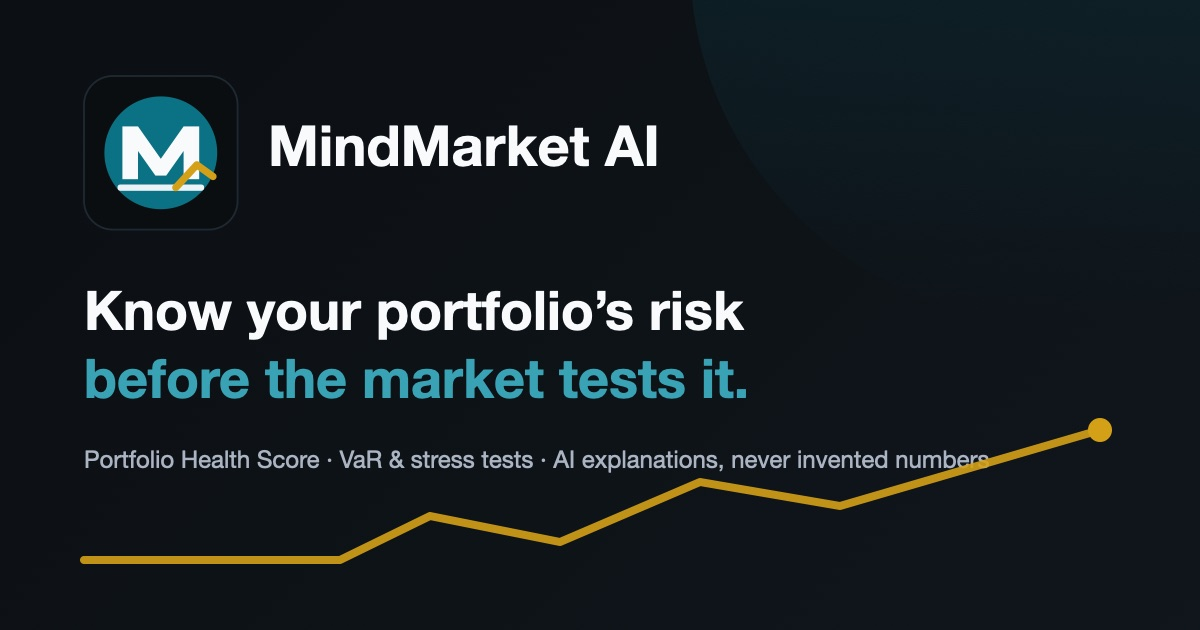
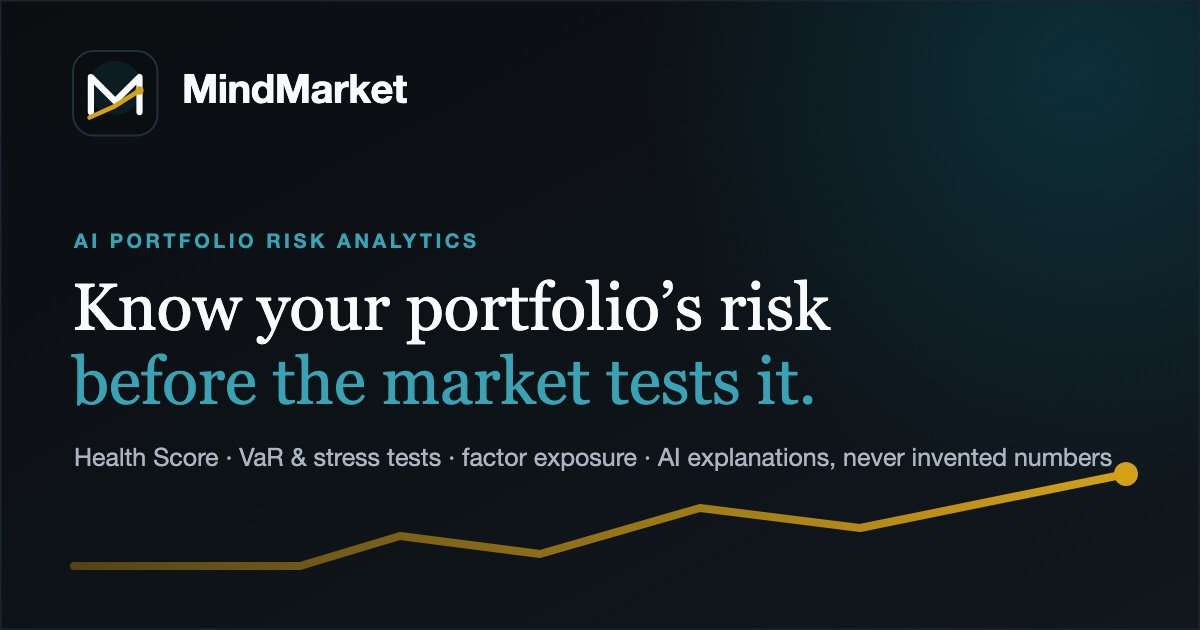
chore(brand): regenerate the social share (OG) card with the current brand (#166)
The link-preview card served on share (og.jpg) still showed the OLD logo
(a filled teal disc with a block-letter M) and Helvetica type — it predates
the V2 brand refresh. Rebuilt assets/brand/og-card.svg with the current
identity: the M + rising-line mark from ui/logo.tsx, the canonical dark
palette (ink 0B0E11, teal 39A3B5, gold D4A017), a serif display headline
(Georgia, the closest installed match to the brand Instrument Serif), and
the gold rising-line risk motif that echoes the logo. Rendered to a
1200x630 og.jpg via headless Chrome (qlmanage distorts non-square SVGs).

Bumped every og:image reference to /og.jpg?v=2 (Next metadata across the
public pages + the static SEO pages) so platforms that cached the old card
refetch it. /og.jpg is served by the frontend container (public/), not
Caddy — the @brand_assets matcher covers only favicons — so the new image
ships in the frontend image; the static SEO ?v=2 refs deploy via the
assets/seo git-pull half.

frontend lint + build clean.

diff --git a/assets/seo/portfolio-risk-management.html b/assets/seo/portfolio-risk-management.html
@@ -14,7 +14,7 @@
   <meta property="og:site_name" content="MindMarket AI">
   <meta property="og:title" content="Personal Portfolio Risk Management Software">
   <meta property="og:description" content="Analyze portfolio risk, drawdown, VaR, CVaR, stress scenarios, and factor exposure with AI-assisted summaries.">
-  <meta property="og:image" content="https://mindmarket.app/og.jpg">
+  <meta property="og:image" content="https://mindmarket.app/og.jpg?v=2">
   <meta name="twitter:card" content="summary_large_image">
   <style>:root{--mm-bg:#f5f7fa;--mm-text:#0b0e11;--mm-dim:#4d5763;--mm-teal:#0b7285;}html.dark{--mm-bg:#0b0e11;--mm-text:#f8fafc;--mm-dim:#aab4c2;--mm-teal:#39a3b5;}
     body { margin:0; background:var(--mm-bg); color:var(--mm-text); font-family:Inter,Arial,sans-serif; line-height:1.65; }

diff --git a/assets/seo/ai-portfolio-analysis.html b/assets/seo/ai-portfolio-analysis.html
@@ -14,7 +14,7 @@
   <meta property="og:site_name" content="MindMarket AI">
   <meta property="og:title" content="AI Portfolio Analysis for Investors">
   <meta property="og:description" content="AI-assisted portfolio risk analysis grounded in VaR, drawdown, concentration, factor exposure, and market data.">
-  <meta property="og:image" content="https://mindmarket.app/og.jpg">
+  <meta property="og:image" content="https://mindmarket.app/og.jpg?v=2">
   <meta name="twitter:card" content="summary_large_image">
   <style>:root{--mm-bg:#f5f7fa;--mm-text:#0b0e11;--mm-dim:#4d5763;--mm-teal:#0b7285;}html.dark{--mm-bg:#0b0e11;--mm-text:#f8fafc;--mm-dim:#aab4c2;--mm-teal:#39a3b5;}
     body { margin:0; background:var(--mm-bg); color:var(--mm-text); font-family:Inter,Arial,sans-serif; line-height:1.65; }

diff --git a/assets/seo/about.html b/assets/seo/about.html
@@ -15,7 +15,7 @@
   <meta property="og:site_name" content="MindMarket AI">
   <meta property="og:title" content="MindMarket AI | Portfolio Risk Analytics">
   <meta property="og:description" content="AI portfolio risk analytics, VaR, stress testing, market context, ticker research, and portfolio tools.">
-  <meta property="og:image" content="https://mindmarket.app/og.jpg">
+  <meta property="og:image" content="https://mindmarket.app/og.jpg?v=2">
   <meta name="twitter:card" content="summary_large_image">
   <style>:root{--mm-bg:#f5f7fa;--mm-text:#0b0e11;--mm-dim:#4d5763;--mm-teal:#0b7285;}html.dark{--mm-bg:#0b0e11;--mm-text:#f8fafc;--mm-dim:#aab4c2;--mm-teal:#39a3b5;}
     body { margin:0; background:var(--mm-bg); color:var(--mm-text); font-family:Inter,Arial,sans-serif; line-height:1.6; }

diff --git a/assets/seo/portfolio-var-stress-testing.html b/assets/seo/portfolio-var-stress-testing.html
@@ -14,7 +14,7 @@
   <meta property="og:site_name" content="MindMarket AI">
   <meta property="og:title" content="Portfolio VaR and Stress Testing Tool">
   <meta property="og:description" content="Review VaR, CVaR, drawdown, factor exposure, and portfolio stress tests in one risk analytics dashboard.">
-  <meta property="og:image" content="https://mindmarket.app/og.jpg">
+  <meta property="og:image" content="https://mindmarket.app/og.jpg?v=2">
   <meta name="twitter:card" content="summary_large_image">
   <style>:root{--mm-bg:#f5f7fa;--mm-text:#0b0e11;--mm-dim:#4d5763;--mm-teal:#0b7285;}html.dark{--mm-bg:#0b0e11;--mm-text:#f8fafc;--mm-dim:#aab4c2;--mm-teal:#39a3b5;}
     body { margin:0; background:var(--mm-bg); color:var(--mm-text); font-family:Inter,Arial,sans-serif; line-height:1.65; }

diff --git a/assets/seo/personal-portfolio-risk-analysis.html b/assets/seo/personal-portfolio-risk-analysis.html
@@ -12,7 +12,7 @@
   <meta property="og:site_name" content="MindMarket AI">
   <meta property="og:title" content="Personal Portfolio Risk Analysis">
   <meta property="og:description" content="Analyze your portfolio's downside risk, concentration, leverage, and stress exposure with MindMarket AI.">
-  <meta property="og:image" content="https://mindmarket.app/og.jpg">
+  <meta property="og:image" content="https://mindmarket.app/og.jpg?v=2">
   <meta name="twitter:card" content="summary_large_image">
   <style>:root{--mm-bg:#f5f7fa;--mm-text:#0b0e11;--mm-dim:#4d5763;--mm-teal:#0b7285;}html.dark{--mm-bg:#0b0e11;--mm-text:#f8fafc;--mm-dim:#aab4c2;--mm-teal:#39a3b5;}
     body { margin:0; background:var(--mm-bg); color:var(--mm-text); font-family:Inter,Arial,sans-serif; line-height:1.65; }

diff --git a/assets/seo/sample-risk-report.html b/assets/seo/sample-risk-report.html
@@ -12,7 +12,7 @@
   <meta property="og:site_name" content="MindMarket AI">
   <meta property="og:title" content="Sample Portfolio Risk Report">
   <meta property="og:description" content="A sample risk snapshot showing the type of output MindMarket AI creates for individual investors.">
-  <meta property="og:image" content="https://mindmarket.app/og.jpg">
+  <meta property="og:image" content="https://mindmarket.app/og.jpg?v=2">
   <meta name="twitter:card" content="summary_large_image">
   <style>:root{--mm-bg:#f5f7fa;--mm-text:#0b0e11;--mm-dim:#4d5763;--mm-teal:#0b7285;}html.dark{--mm-bg:#0b0e11;--mm-text:#f8fafc;--mm-dim:#aab4c2;--mm-teal:#39a3b5;}
     body { margin:0; background:var(--mm-bg); color:var(--mm-text); font-family:Inter,Arial,sans-serif; line-height:1.65; }

diff --git a/assets/seo/portfolio-stress-test.html b/assets/seo/portfolio-stress-test.html
@@ -12,7 +12,7 @@
   <meta property="og:site_name" content="MindMarket AI">
   <meta property="og:title" content="Portfolio Stress Test Tool">
   <meta property="og:description" content="Understand how a portfolio may respond to market shocks and concentrated downside scenarios.">
-  <meta property="og:image" content="https://mindmarket.app/og.jpg">
+  <meta property="og:image" content="https://mindmarket.app/og.jpg?v=2">
   <meta name="twitter:card" content="summary_large_image">
   <style>:root{--mm-bg:#f5f7fa;--mm-text:#0b0e11;--mm-dim:#4d5763;--mm-teal:#0b7285;}html.dark{--mm-bg:#0b0e11;--mm-text:#f8fafc;--mm-dim:#aab4c2;--mm-teal:#39a3b5;}
     body { margin:0; background:var(--mm-bg); color:var(--mm-text); font-family:Inter,Arial,sans-serif; line-height:1.65; }

diff --git a/assets/seo/margin-risk-calculator.html b/assets/seo/margin-risk-calculator.html
@@ -12,7 +12,7 @@
   <meta property="og:site_name" content="MindMarket AI">
   <meta property="og:title" content="Margin Risk Calculator for Stock Portfolios">
   <meta property="og:description" content="Estimate portfolio leverage and margin risk before adding exposure.">
-  <meta property="og:image" content="https://mindmarket.app/og.jpg">
+  <meta property="og:image" content="https://mindmarket.app/og.jpg?v=2">
   <meta name="twitter:card" content="summary_large_image">
   <style>:root{--mm-bg:#f5f7fa;--mm-text:#0b0e11;--mm-dim:#4d5763;--mm-teal:#0b7285;}html.dark{--mm-bg:#0b0e11;--mm-text:#f8fafc;--mm-dim:#aab4c2;--mm-teal:#39a3b5;}
     body { margin:0; background:var(--mm-bg); color:var(--mm-text); font-family:Inter,Arial,sans-serif; line-height:1.65; }

diff --git a/assets/seo/robinhood-margin-risk.html b/assets/seo/robinhood-margin-risk.html
@@ -12,7 +12,7 @@
   <meta property="og:site_name" content="MindMarket AI">
   <meta property="og:title" content="Robinhood Margin Risk Analysis">
   <meta property="og:description" content="Separate cash from margin buying power and analyze leveraged portfolio risk.">
-  <meta property="og:image" content="https://mindmarket.app/og.jpg">
+  <meta property="og:image" content="https://mindmarket.app/og.jpg?v=2">
   <meta name="twitter:card" content="summary_large_image">
   <style>:root{--mm-bg:#f5f7fa;--mm-text:#0b0e11;--mm-dim:#4d5763;--mm-teal:#0b7285;}html.dark{--mm-bg:#0b0e11;--mm-text:#f8fafc;--mm-dim:#aab4c2;--mm-teal:#39a3b5;}
     body { margin:0; background:var(--mm-bg); color:var(--mm-text); font-family:Inter,Arial,sans-serif; line-height:1.65; }

diff --git a/assets/seo/demo.html b/assets/seo/demo.html
@@ -12,7 +12,7 @@
   <meta property="og:site_name" content="MindMarket AI">
   <meta property="og:title" content="MindMarket AI Demo">
   <meta property="og:description" content="Preview AI portfolio risk analysis with a sample portfolio before creating an account.">
-  <meta property="og:image" content="https://mindmarket.app/og.jpg">
+  <meta property="og:image" content="https://mindmarket.app/og.jpg?v=2">
   <meta name="twitter:card" content="summary_large_image">
   <style>:root{--mm-bg:#f5f7fa;--mm-text:#0b0e11;--mm-dim:#4d5763;--mm-teal:#0b7285;}html.dark{--mm-bg:#0b0e11;--mm-text:#f8fafc;--mm-dim:#aab4c2;--mm-teal:#39a3b5;}
     body { margin:0; background:var(--mm-bg); color:var(--mm-text); font-family:Inter,Arial,sans-serif; line-height:1.65; }

diff --git a/assets/seo/stock-portfolio-concentration-risk.html b/assets/seo/stock-portfolio-concentration-risk.html
@@ -12,7 +12,7 @@
   <meta property="og:site_name" content="MindMarket AI">
   <meta property="og:title" content="Stock Portfolio Concentration Risk">
   <meta property="og:description" content="Find out whether a few holdings dominate your portfolio risk.">
-  <meta property="og:image" content="https://mindmarket.app/og.jpg">
+  <meta property="og:image" content="https://mindmarket.app/og.jpg?v=2">
   <meta name="twitter:card" content="summary_large_image">
   <style>:root{--mm-bg:#f5f7fa;--mm-text:#0b0e11;--mm-dim:#4d5763;--mm-teal:#0b7285;}html.dark{--mm-bg:#0b0e11;--mm-text:#f8fafc;--mm-dim:#aab4c2;--mm-teal:#39a3b5;}
     body { margin:0; background:var(--mm-bg); color:var(--mm-text); font-family:Inter,Arial,sans-serif; line-height:1.65; }

diff --git a/frontend/src/app/layout.tsx b/frontend/src/app/layout.tsx
@@ -89,7 +89,7 @@ export const metadata: Metadata = {
       "Score your portfolio, inspect downside risk, and understand macro exposure with deterministic risk math plus AI explanations.",
     images: [
       {
-        url: "/og.jpg",
+        url: "/og.jpg?v=2",
         width: 1200,
         height: 630,
         alt: "MindMarket AI — know your portfolio's risk before the market tests it",
@@ -101,7 +101,7 @@ export const metadata: Metadata = {
     title: "MindMarket | AI Portfolio Risk Analytics",
     description:
       "Portfolio health score, VaR/CVaR, stress tests, factor exposure, and live US rates data for individual investors.",
-    images: ["/og.jpg"],
+    images: ["/og.jpg?v=2"],
   },
   robots: {
     index: true,
